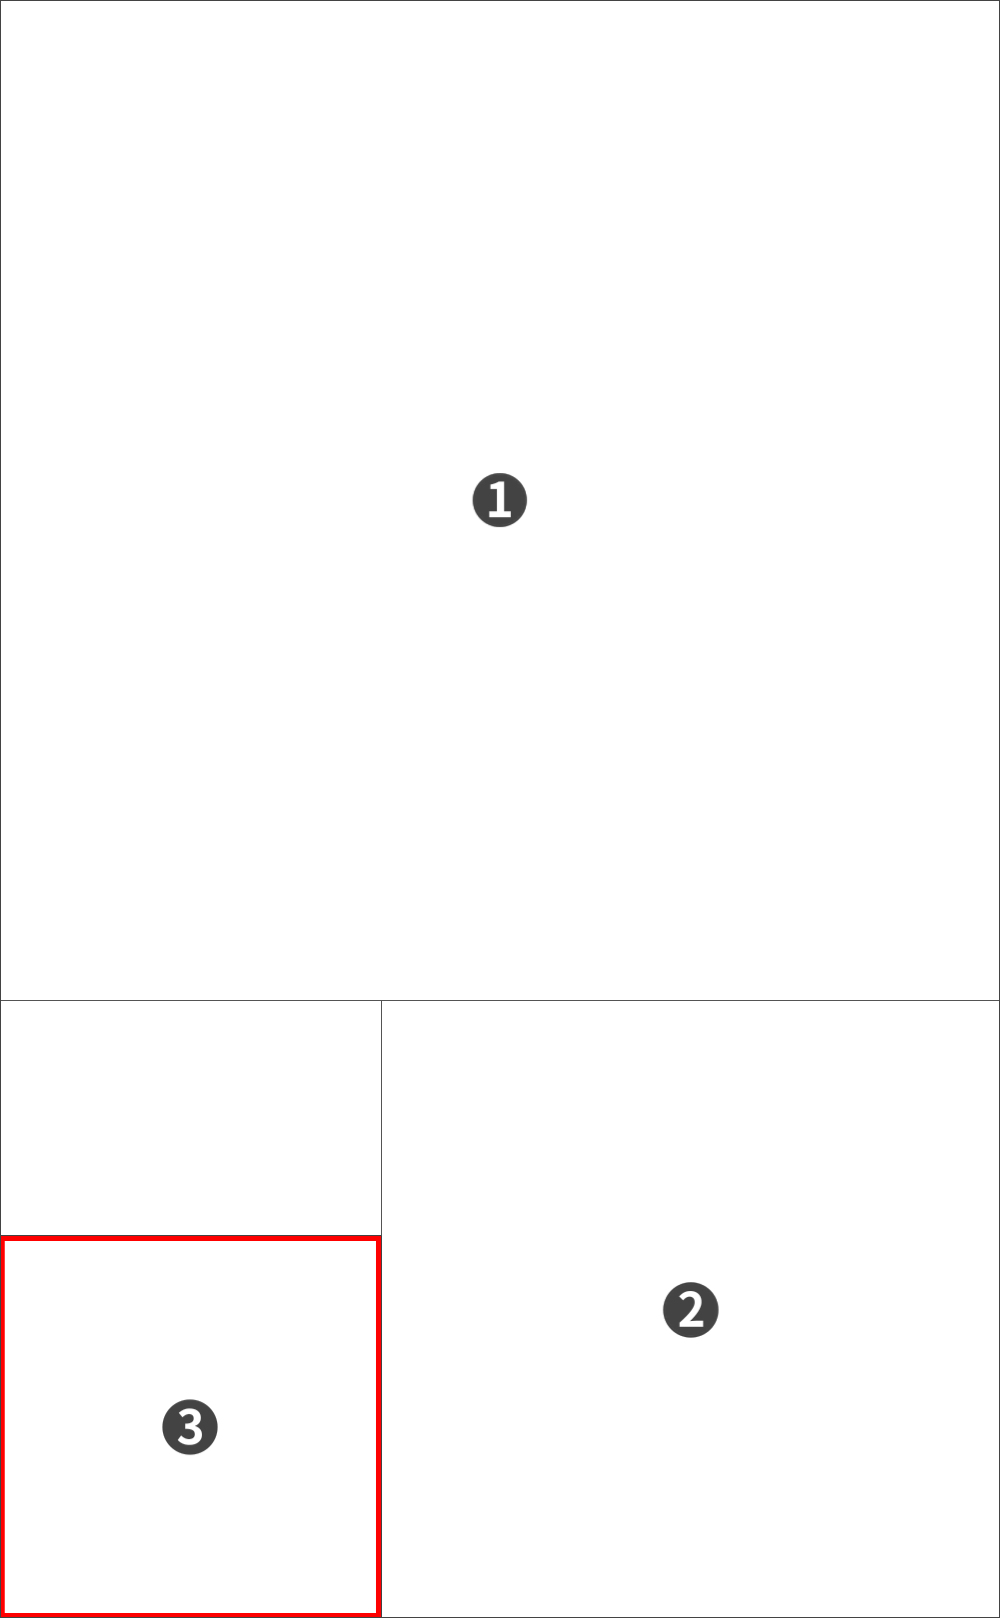
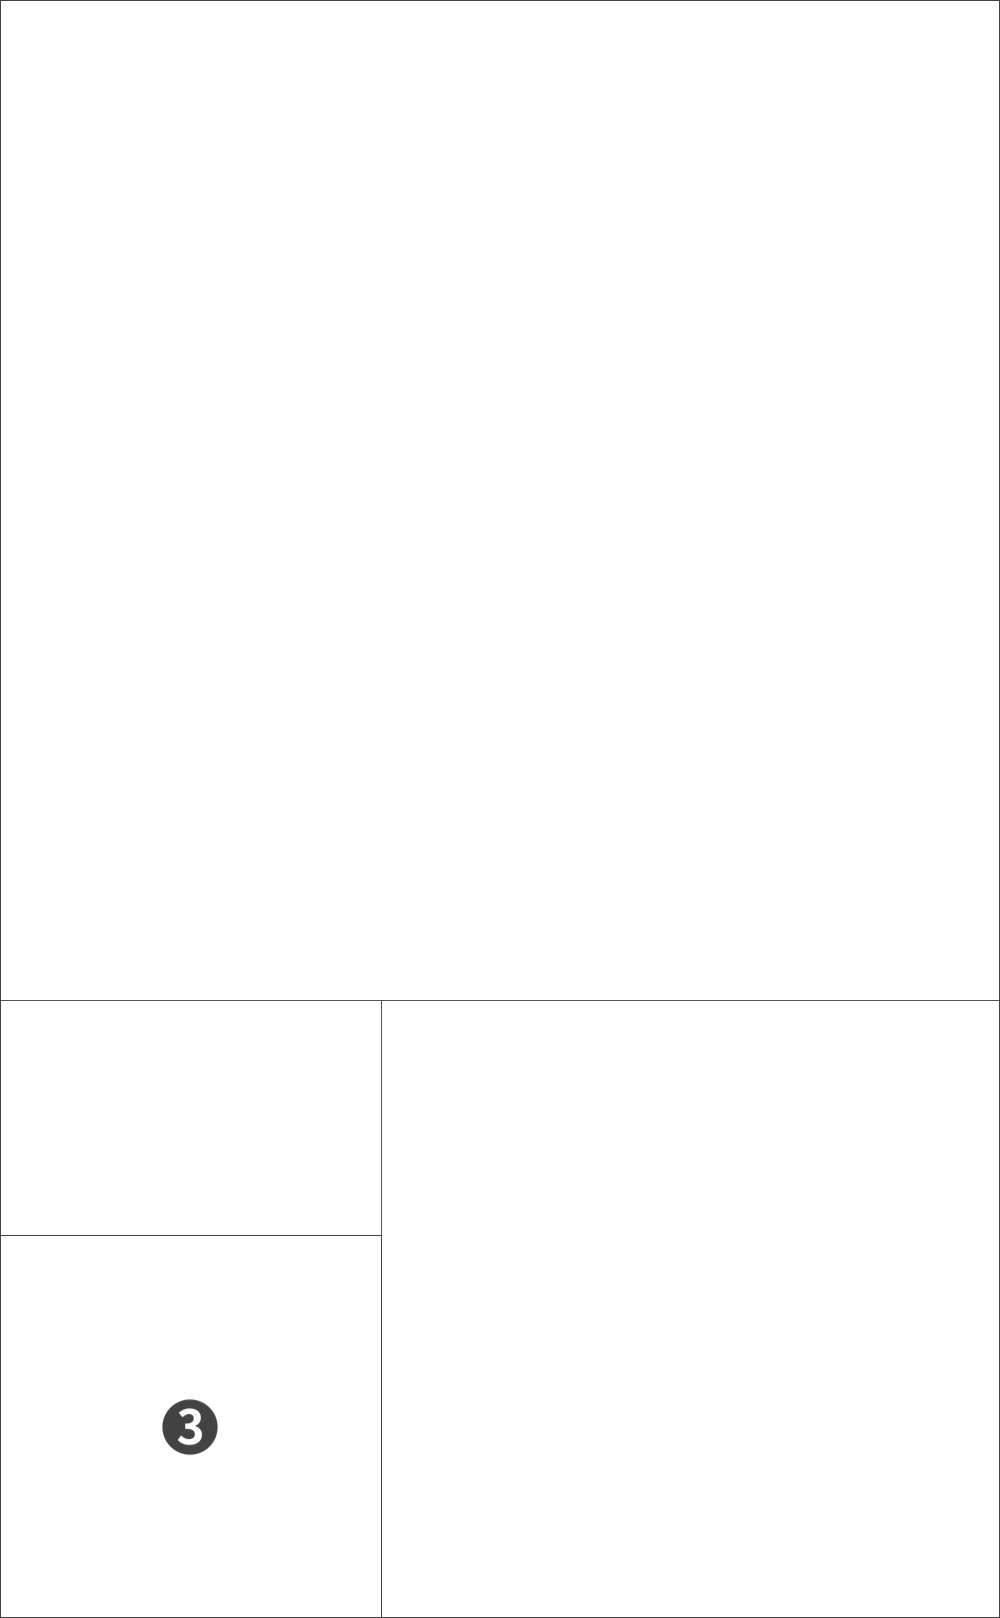
“こうしん”

Changed region(s): [[0.0, 0.7417, 0.403, 1.0], [0.651, 0.7726, 0.713, 0.8344], [0.465, 0.2781, 0.527, 0.3399]]

diff --git a/posts/00.md b/posts/00.md
@@ -1,18 +1,25 @@
 ---
-title: '歩むコツ / エリア④こうじちゅう'
+title: ''
 date: '2023-06-01'
 ---
 ![](/images/00.jpg)
 ***
-まず、④を見つけましょう。
+④の方は、まず④を探しましょう。
 ***
-![](/images/00_n.jpg)
+![](/images/00_.jpg)
 ***
-次に、自然界のバランスを見つけましょう。
+次に、自然界のバランスを探しましょう。
 ***
-![](/images/00__n.jpg)
+![](/images/00__.jpg)
 ***
-④を、4割、参考にするのと同時に、    
-自然界のバランスを、6割、参考にするのが歩むコツです。
+④を4割、参考にするのと同時に、    
+自然界のバランスを6割、参考にするのが歩むコツです。
 ***
-[ 次へ → ](https://thebase.in/inquiry/01234567890)
+![](/images/00___.jpg)
+***
+必要でしたら、お問い合わせください。
+***
+***
+ありがとうございました。
+***
+[ 進む→ ](https://thebase.in/inquiry/01234567890)

diff --git a/posts/11.md b/posts/11.md
@@ -1,22 +1,25 @@
 ---
-title: '歩むコツ / エリア➊こうじちゅう'
+title: ''
 date: '2023-02-01'
 ---
-***
-まず、➊を見つけましょう。
-***
 ![](/images/11.jpg)
-
 ***
-まず、➊を見つけましょう。
+➊の方は、まず➊を探しましょう。
 ***
-![](/images/11_n.jpg)
+![](/images/11_.jpg)
 ***
-次に、①を見つけましょう。
+次に、①を探しましょう。
 ***
-![](/images/11__n.jpg)
+![](/images/11__.jpg)
 ***
-➊を、4割、参考にするのと同時に、    
-①を、6割、参考にするのが歩むコツです。
+➊を4割、参考にするのと同時に、  
+①を6割、参考にするのが歩むコツです。
 ***
-[ 次へ → ](/posts/22)
+![](/images/11___.jpg)
+***
+必要でしたら、お問い合わせください。
+***
+***
+ありがとうございました。
+***
+[ 進む→ ](https://thebase.in/inquiry/01234567890)

diff --git a/posts/22.md b/posts/22.md
@@ -1,18 +1,25 @@
 ---
-title: '歩むコツ / エリア➋こうじちゅう'
+title: ''
 date: '2023-03-01'
 ---
 ![](/images/22.jpg)
 ***
-まず、➋を見つけましょう。
+➋の方は、まず➋を探しましょう。
 ***
-![](/images/22_n.jpg)
+![](/images/22_.jpg)
 ***
-次に、②を見つけましょう。
+次に、②を探しましょう。
 ***
-![](/images/22__n.jpg)
+![](/images/22__.jpg)
 ***
-➋を、4割、参考にするのと同時に、    
-②を、6割、参考にするのが歩むコツです。
+➋を4割、参考にするのと同時に、    
+②を6割、参考にするのが歩むコツです。
 ***
-[ 次へ → ](/posts/33)
+![](/images/22___.jpg)
+***
+必要でしたら、お問い合わせください。
+***
+***
+ありがとうございました。
+***
+[ 進む→ ](https://thebase.in/inquiry/01234567890)

diff --git a/posts/33.md b/posts/33.md
@@ -1,18 +1,25 @@
 ---
-title: '歩むコツ / エリア➌こうじちゅう'
+title: ''
 date: '2023-04-01'
 ---
 ![](/images/33.jpg)
 ***
-まず、➌を見つけましょう。
+➌の方は、まず➌を探しましょう。
 ***
-![](/images/33_n.jpg)
+![](/images/33_.jpg)
 ***
-次に、③を見つけましょう。
+次に、③を探しましょう。
 ***
-![](/images/33__n.jpg)
+![](/images/33__.jpg)
 ***
-➌を、4割、参考にするのと同時に、    
-③を、6割、参考にするのが歩むコツです。
+➌を4割、参考にするのと同時に、    
+③を6割、参考にするのが歩むコツです。
 ***
-[ 次へ → ](/posts/44)
+![](/images/33___.jpg)
+***
+必要でしたら、お問い合わせください。
+***
+***
+ありがとうございました。
+***
+[ 進む→ ](https://thebase.in/inquiry/01234567890)

diff --git a/posts/44.md b/posts/44.md
@@ -1,18 +1,25 @@
 ---
-title: '歩むコツ / エリア➍こうじちゅう'
+title: ''
 date: '2023-05-01'
 ---
 ![](/images/44.jpg)
 ***
-まず、➍を見つけましょう。
+➍の方は、まず➍を探しましょう。
 ***
-![](/images/44_n.jpg)
+![](/images/44_.jpg)
 ***
-次に、④を見つけましょう。
+次に、④を探しましょう。
 ***
-![](/images/44__n.jpg)
+![](/images/44__.jpg)
 ***
-➍を、4割、参考にするのと同時に、    
-④を、6割、参考にするのが歩むコツです。
+➍を4割、参考にするのと同時に、    
+④を6割、参考にするのが歩むコツです。
 ***
-[ 次へ → ](/posts/00)
+![](/images/44___.jpg)
+***
+必要でしたら、お問い合わせください。
+***
+***
+ありがとうございました。
+***
+[ 進む→ ](https://thebase.in/inquiry/01234567890)

diff --git a/posts/0.md b/posts/0.md
@@ -1,7 +1,9 @@
 ---
-title: '歩むコツこうじちゅう'
+title: '歩むコツ'
 date: '2023-01-01'
 ---
 ![](/images/0.jpg)
-
-[ 次へ → ](/posts/11)
+***
+[➊](/posts/11)　　[➋](/posts/22)　　[➌](/posts/33)　　[➍](/posts/44)　　[④](/posts/00)
+***
+[ ↲ 戻る ](https://01234567890.thebase.in/about)
